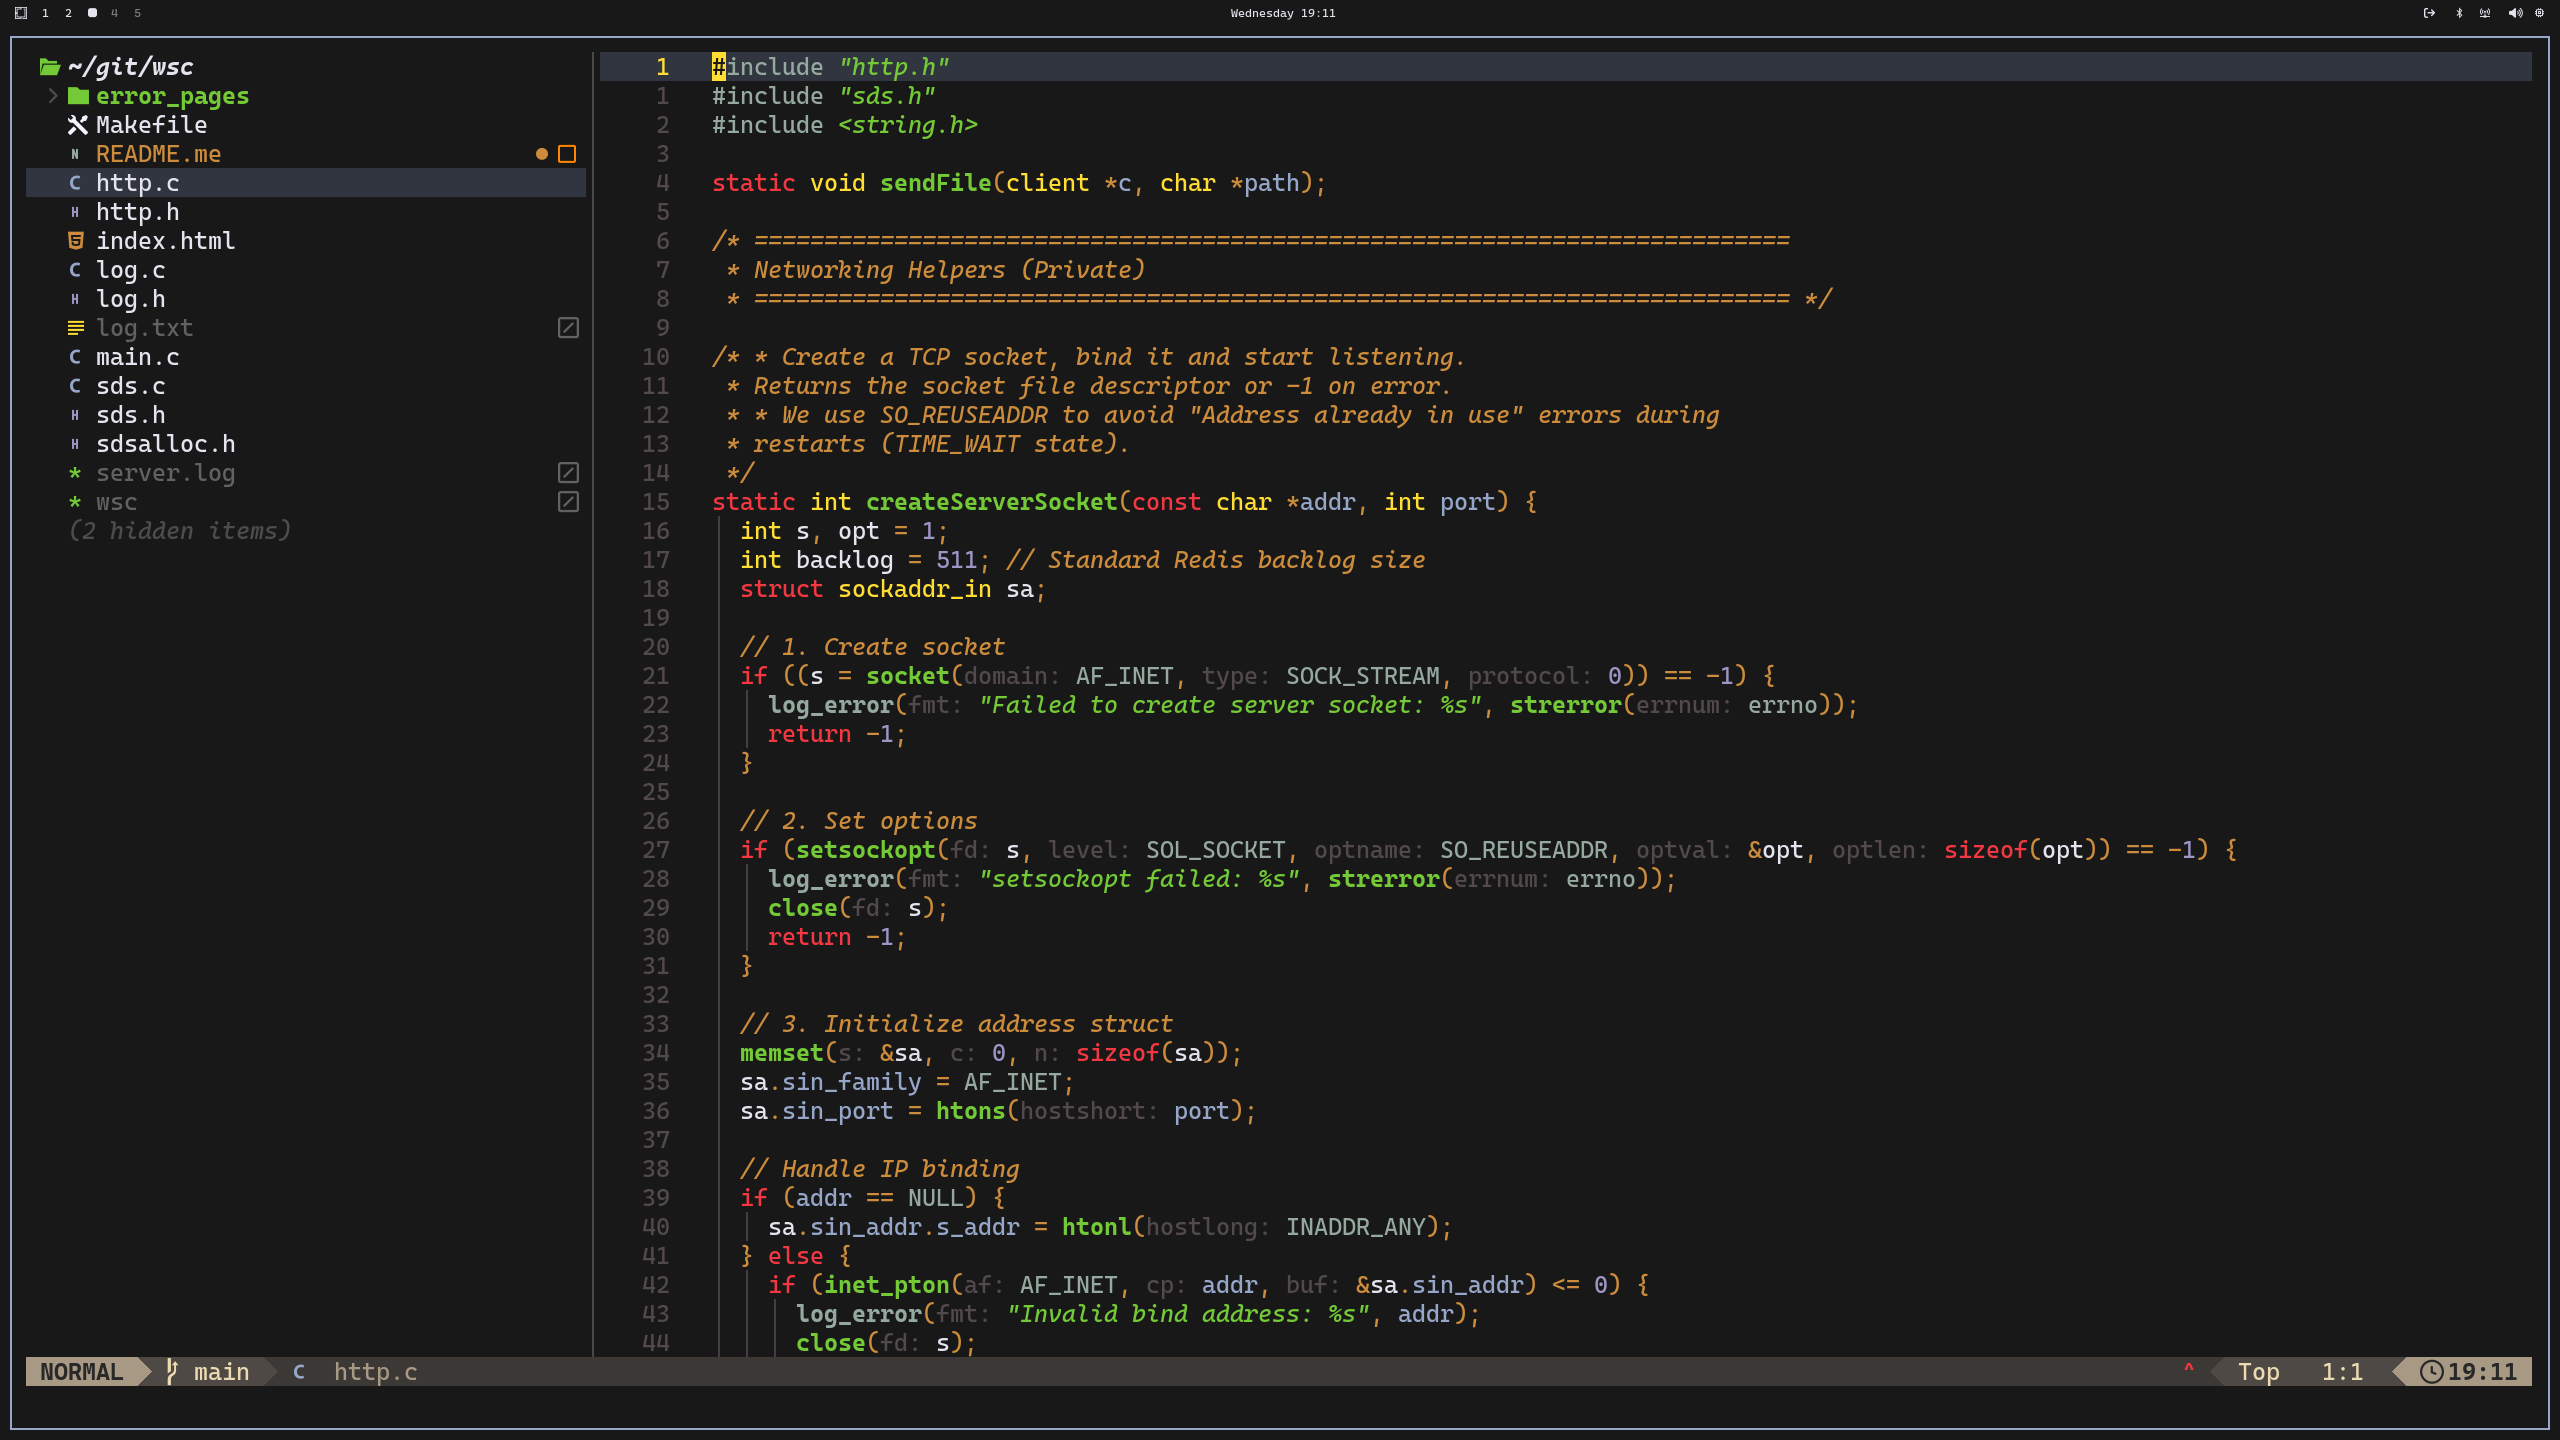
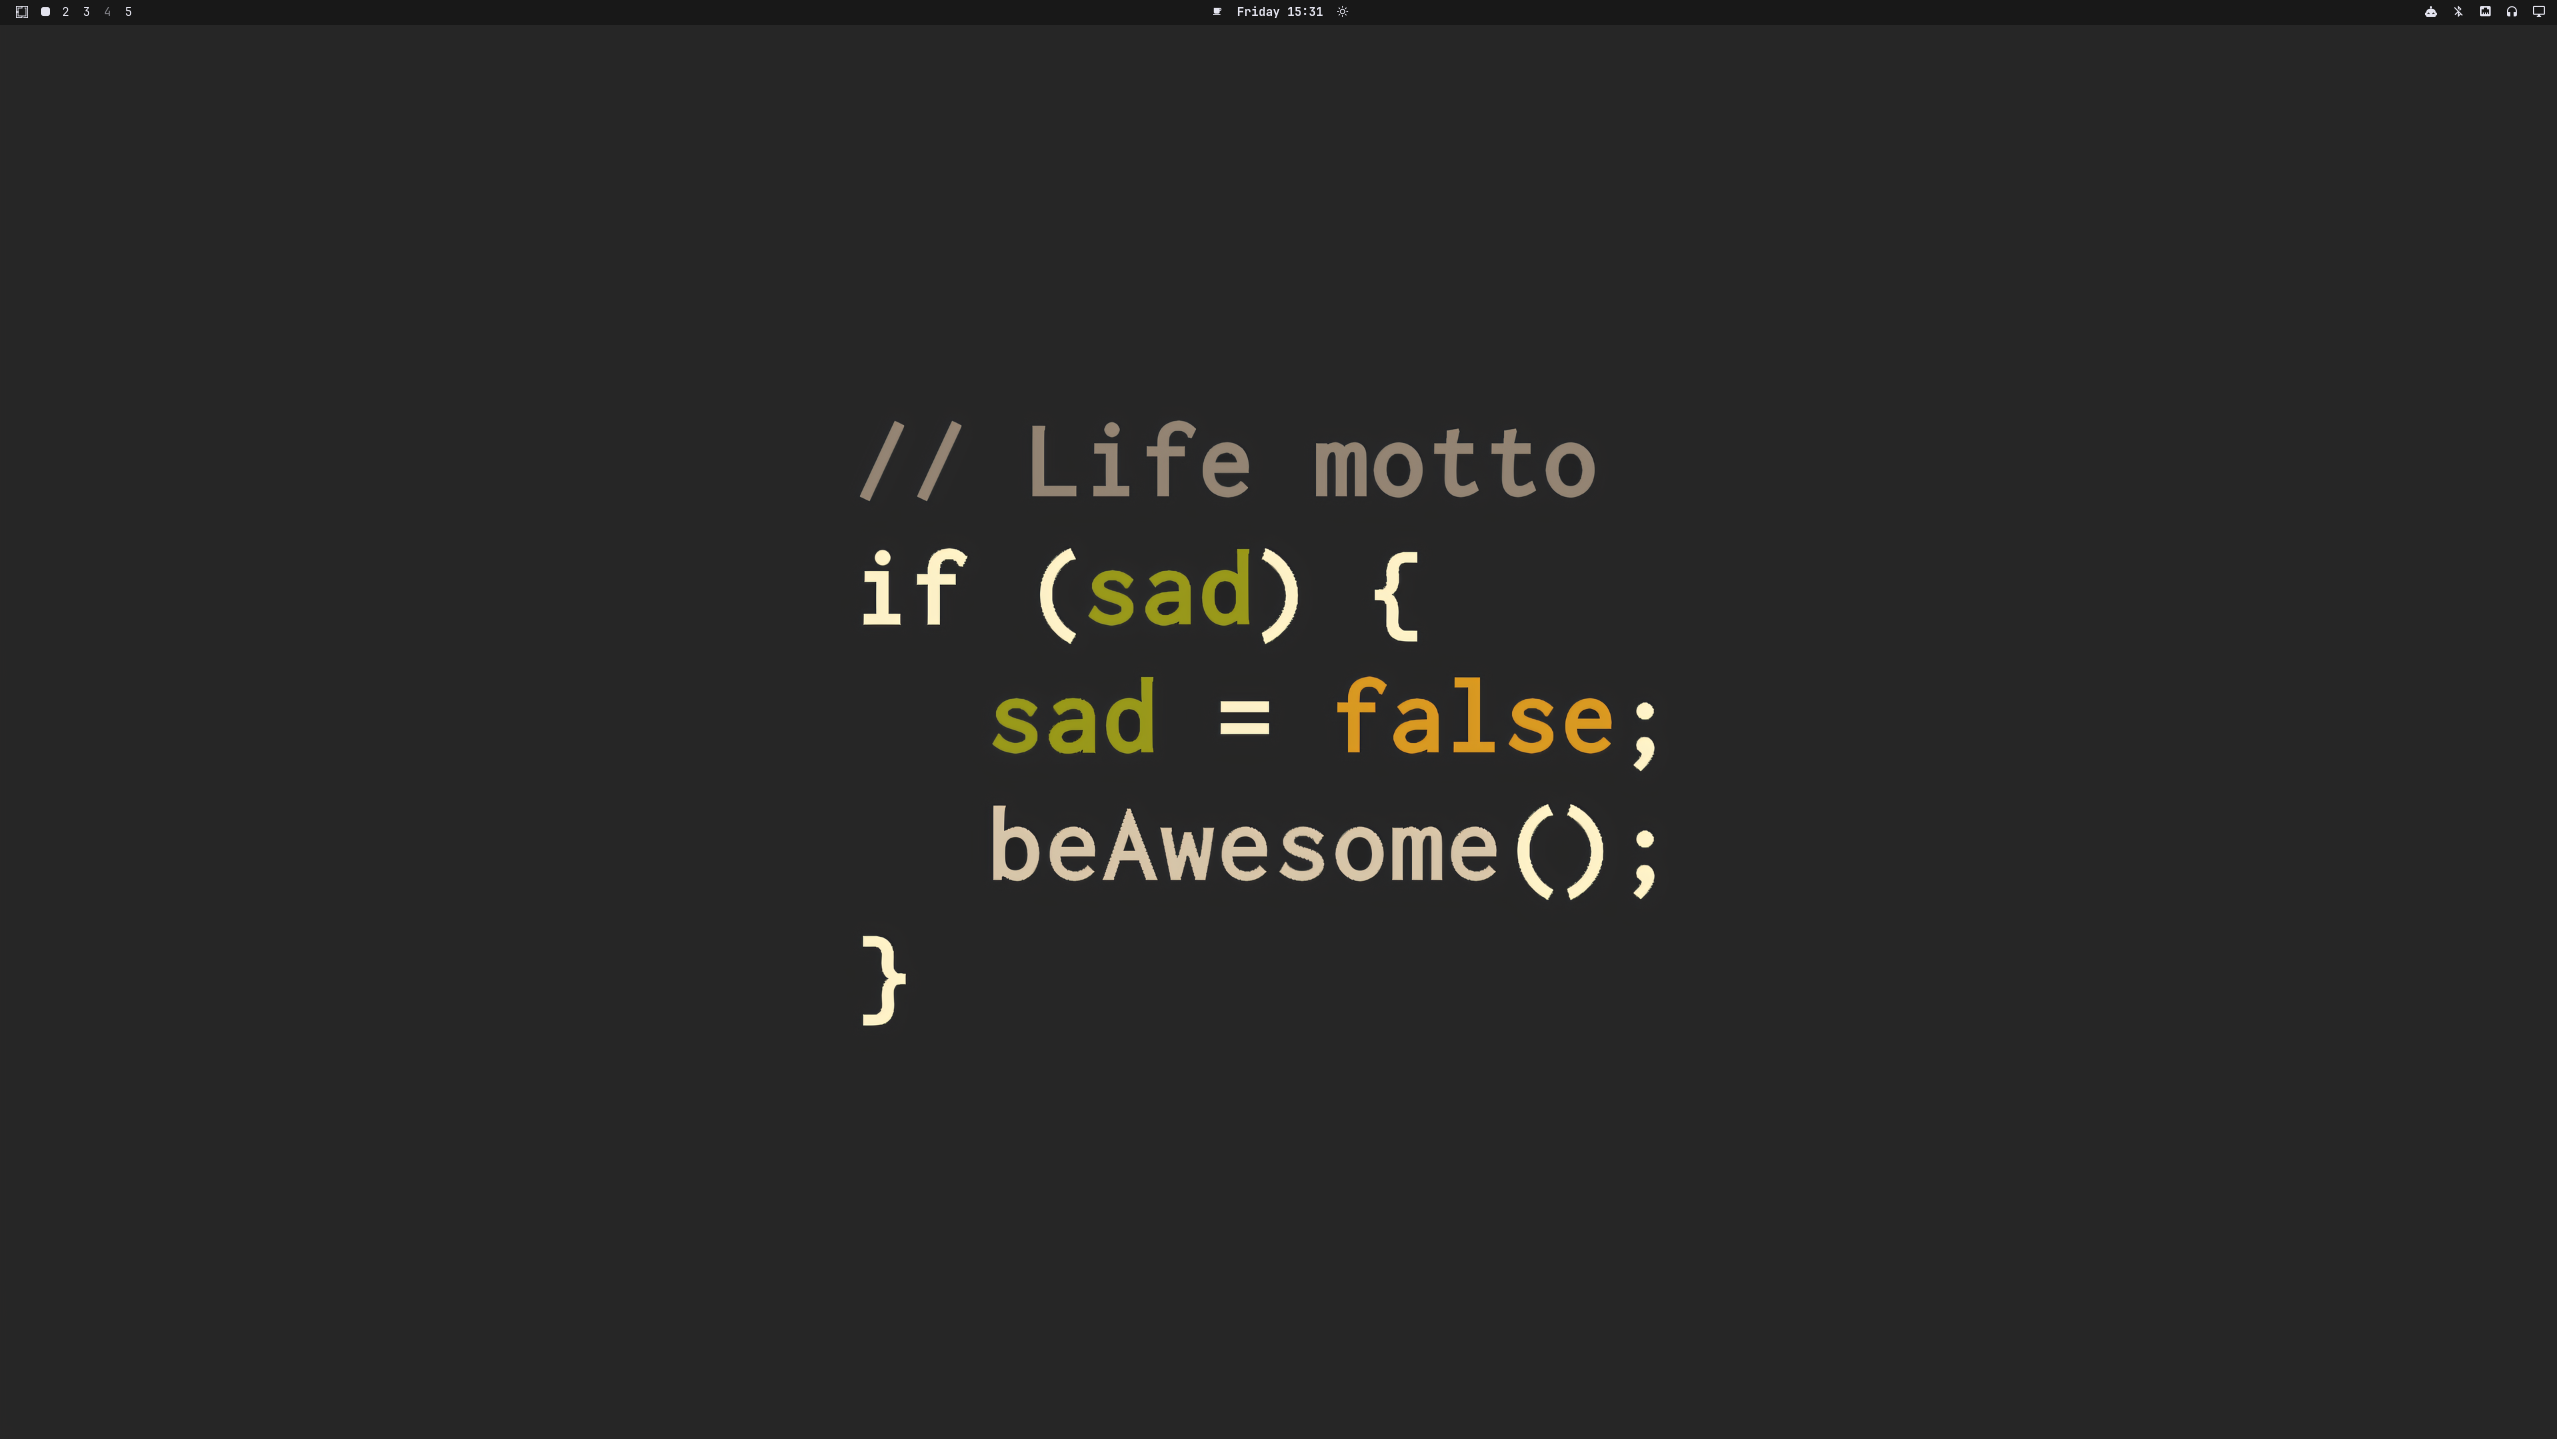
Update theme for Omarchy Quattro

diff --git a/README.md b/README.md
@@ -1,17 +1,38 @@
-# Gruber Tsoding - Omarchy Theme
+# Gruber Tsoding
 
-![preview](preview.png)
+> A Gruber Darker-inspired Omarchy theme with a little Tsoding energy — updated for Omarchy Quattro.
 
-A zen, minimal, and distraction-free theme for Omarchy, inspired by the legendary YouTuber [Tsoding](https://www.youtube.com/@Tsoding).
+![Gruber Tsoding desktop](preview.png)
 
-This theme, based on the classic "Gruber Darker" palette, is designed for those who want to focus purely on their code, eliminating all unnecessary visual noise. Embrace the zen of coding.
+Deep charcoal surfaces, warm amber highlights, vivid terminal-green, and muted
+Niagara blues: a focused coding palette that stays easy on the eyes. This
+release is updated for **Omarchy Quattro** and uses its semantic colour roles.
 
-## Installation
+## What’s included
 
-Run the following command to install the theme directly from GitHub:
+- Omarchy Quattro colour roles
+- A matching Gruvbox/Gruber Darker Neovim configuration
+- A matching btop theme
+- A distraction-free desktop preview ready for the theme picker
 
-```sh
-omarchy-theme-install https://github.com/davide-ferrara/omarchy-gruberdark-tsoding-theme
+## Install
+
+```bash
+omarchy theme install https://github.com/davide-ferrara/omarchy-gruberdark-tsoding-theme
+omarchy theme set gruber-tsoding
 ```
 
-This will automatically place the theme in your Omarchy themes directory.
+## Palette
+
+| Role | Colour |
+| --- | --- |
+| Background | `#181818` |
+| Foreground | `#e4e4ef` |
+| Amber accent | `#c9ab25` |
+| Green | `#73c936` |
+| Blue | `#96a6c8` |
+| Red | `#c73c3f` |
+
+---
+
+Built for [Omarchy](https://omarchy.org/).
